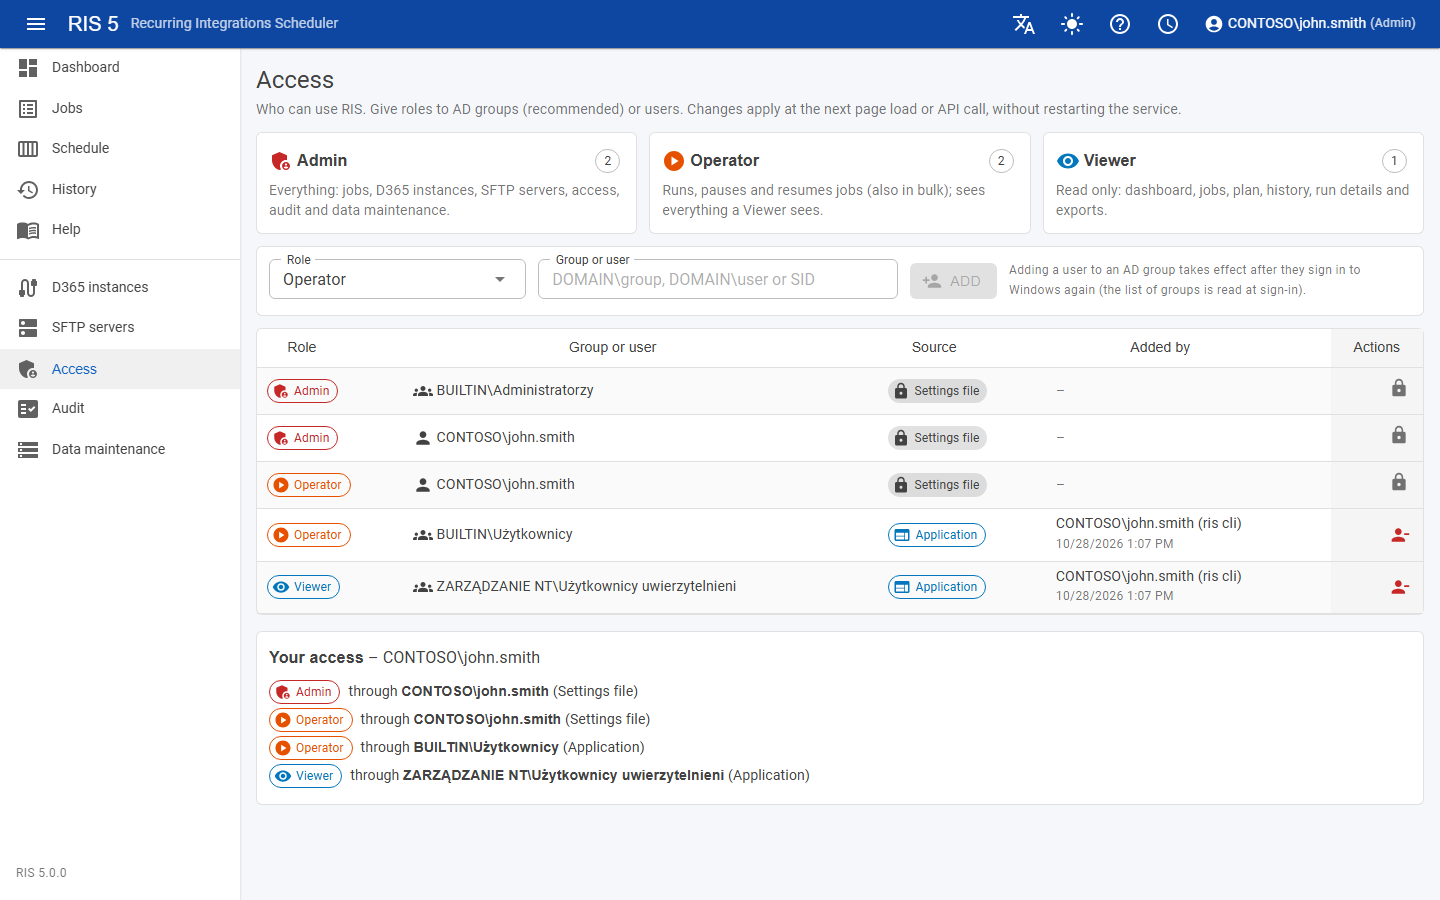
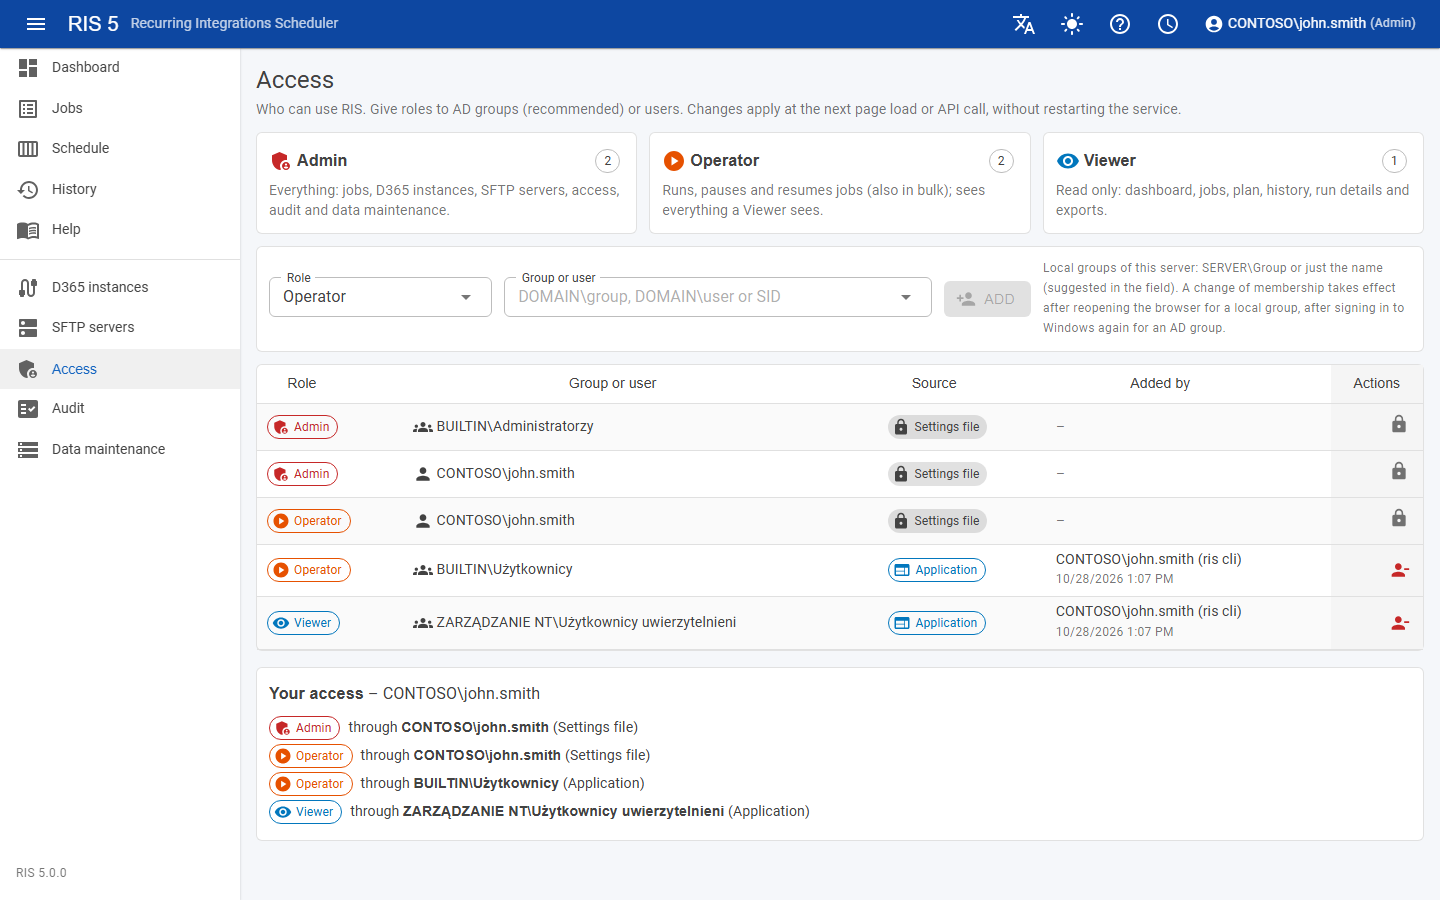
RIS 5 access: local groups of the server - every name form accepted, suggestions on the Access page
Built-in groups resolve as .\Name but not SERVER\Name, other local groups the other way round; the lookup is repeated with the bare name. The member field suggests the local groups (NetLocalGroupEnum) with their descriptions. Manual: creating a local group with New-LocalGroup / Add-LocalGroupMember.

diff --git a/src/RIS.Hosting/WindowsAccounts.cs b/src/RIS.Hosting/WindowsAccounts.cs
@@ -36,8 +36,66 @@ public static class WindowsAccounts
             if (!OperatingSystem.IsWindows()) return new WindowsAccount(sid.Value, sid.Value, true);
             return LookupSid(sid) ?? new WindowsAccount(sid.Value, sid.Value, true);
         }
-        return OperatingSystem.IsWindows() ? LookupName(account) : null;
+        if (!OperatingSystem.IsWindows()) return null;
+        // Local groups of this server: Windows accepts built-in groups as ".\Name" but not "SERVER\Name", and other local
+        // groups the other way round - every form works when the lookup is repeated with the bare name.
+        return LookupName(account) ?? (LocalName(account) is { } name ? LookupName(name) : null);
     }
+
+    /// <summary>The name after ".\" or "&lt;this computer&gt;\", otherwise null.</summary>
+    private static string? LocalName(string account)
+    {
+        var slash = account.IndexOf('\\');
+        if (slash <= 0 || slash == account.Length - 1) return null;
+        var prefix = account[..slash];
+        return prefix == "." || string.Equals(prefix, Environment.MachineName, StringComparison.OrdinalIgnoreCase) ? account[(slash + 1)..] : null;
+    }
+
+    /// <summary>Local groups of this computer (name as Windows writes it, comment), for suggestions on the "Access" page.</summary>
+    public static IReadOnlyList<(string Name, string? Comment)> LocalGroups()
+    {
+        if (!OperatingSystem.IsWindows()) return [];
+        var result = new List<(string Name, string? Comment)>();
+        nint resume = 0;
+        int status;
+        do
+        {
+            status = NetLocalGroupEnum(null, 1, out var buffer, -1, out var read, out _, ref resume);
+            if (status != 0 && status != ErrorMoreData) break;
+            try
+            {
+                var size = Marshal.SizeOf<LocalGroupInfo1>();
+                for (var i = 0; i < read; i++)
+                {
+                    var info = Marshal.PtrToStructure<LocalGroupInfo1>(buffer + i * size);
+                    if (info.Name is null) continue;
+                    // Canonical name from the SID: BUILTIN\Administrators, SERVER\RIS-Operators.
+                    result.Add((LookupName(info.Name)?.Name ?? info.Name, string.IsNullOrWhiteSpace(info.Comment) ? null : info.Comment));
+                }
+            }
+            finally
+            {
+                if (buffer != 0) NetApiBufferFree(buffer);
+            }
+        } while (status == ErrorMoreData);
+        return result.OrderBy(g => g.Name, StringComparer.CurrentCultureIgnoreCase).ToList();
+    }
+
+    private const int ErrorMoreData = 234;
+
+    [StructLayout(LayoutKind.Sequential, CharSet = CharSet.Unicode)]
+    private struct LocalGroupInfo1
+    {
+        public string? Name;
+        public string? Comment;
+    }
+
+    [DllImport("netapi32.dll", CharSet = CharSet.Unicode)]
+    private static extern int NetLocalGroupEnum(string? serverName, int level, out nint buffer, int preferredMaxLength, out int entriesRead,
+        out int totalEntries, ref nint resumeHandle);
+
+    [DllImport("netapi32.dll")]
+    private static extern int NetApiBufferFree(nint buffer);
 
     private static WindowsAccount? LookupName(string account)
     {

diff --git a/test/RIS.Hosting.Tests/WindowsAccountsTests.cs b/test/RIS.Hosting.Tests/WindowsAccountsTests.cs
@@ -1,0 +1,41 @@
+namespace RIS.Hosting.Tests;
+
+/// <summary>Windows account lookup for the "Access" page: every way of writing a local group of the server is accepted.</summary>
+[TestClass]
+public sealed class WindowsAccountsTests
+{
+    private const string Administrators = "S-1-5-32-544";
+
+    [TestMethod]
+    public void LocalGroup_IsFound_ByName_DotPrefix_ComputerPrefix_AndSid()
+    {
+        if (!OperatingSystem.IsWindows()) Assert.Inconclusive("Windows only.");
+
+        // The name depends on the language of Windows (BUILTIN\Administrators, BUILTIN\Administratorzy, ...).
+        var bySid = WindowsAccounts.Resolve(Administrators);
+        Assert.IsNotNull(bySid);
+        Assert.IsTrue(bySid.IsGroup);
+        StringAssert.Contains(bySid.Name, "\\");
+        var name = bySid.Name[(bySid.Name.IndexOf('\\') + 1)..];
+
+        foreach (var form in new[] { name, bySid.Name, @".\" + name, Environment.MachineName + "\\" + name })
+        {
+            var account = WindowsAccounts.Resolve(form);
+            Assert.IsNotNull(account, form);
+            Assert.AreEqual(Administrators, account.Sid, form);
+            Assert.AreEqual(bySid.Name, account.Name, "Canonical name for " + form);
+        }
+
+        Assert.IsNull(WindowsAccounts.Resolve(@".\no-such-group-ris5"));
+        Assert.IsNull(WindowsAccounts.Resolve(@"NO-SUCH-DOMAIN\no-such-group-ris5"));
+    }
+
+    [TestMethod]
+    public void LocalGroups_AreListed_WithCanonicalNames()
+    {
+        if (!OperatingSystem.IsWindows()) Assert.Inconclusive("Windows only.");
+
+        var groups = WindowsAccounts.LocalGroups();
+        CollectionAssert.Contains(groups.Select(g => g.Name).ToList(), WindowsAccounts.Resolve(Administrators)!.Name);
+    }
+}

diff --git a/src/RIS.Server/wwwroot/manual/pl/02-installation.md b/src/RIS.Server/wwwroot/manual/pl/02-installation.md
@@ -76,6 +76,15 @@ Potrzebne, gdy zadania czytają lub zapisują pliki na udziałach sieciowych.
 
 > Dodanie użytkownika do grupy AD zadziała po jego **ponownym zalogowaniu do Windows** – lista grup jest odczytywana przy logowaniu.
 
+**Grupy lokalne serwera** – gdy nie możesz tworzyć grup w AD albo chcesz nadać dostęp tylko na tym serwerze, utwórz grupę lokalną i dodaj do niej konta domenowe (PowerShell jako administrator):
+
+```powershell
+New-LocalGroup -Name RIS-Operatorzy -Description "Operatorzy RIS 5"
+Add-LocalGroupMember -Group RIS-Operatorzy -Member CONTOSO\jan.kowalski, CONTOSO\Księgowość
+```
+
+Na stronie *Dostęp* zacznij pisać w polu *Grupa lub użytkownik* – pole podpowiada grupy lokalne serwera. Można wpisać `SERWER\RIS-Operatorzy`, `.\RIS-Operatorzy` albo samą nazwę. Zmiana członkostwa w grupie lokalnej działa po ponownym otwarciu przeglądarki (bez wylogowania z Windows). Przy wielu serwerach RIS wygodniejsze są grupy AD – jedna grupa dla wszystkich serwerów.
+
 **Plik ustawień.** Role podane w instalatorze (`/ADMINS`, `/OPERATORS`) są w `%ProgramData%\RIS5\appsettings.json` i na stronie *Dostęp* są tylko do odczytu (ikona kłódki) – dzięki temu administratorzy nie mogą przypadkiem odciąć sobie dostępu. Zmiana w pliku wymaga restartu usługi:
 
 ```json

diff --git a/src/RIS.Server/wwwroot/manual/en/02-installation.md b/src/RIS.Server/wwwroot/manual/en/02-installation.md
@@ -76,6 +76,15 @@ Needed when jobs read or write files on network shares.
 
 > Adding a user to an AD group takes effect after they **sign in to Windows again** – the list of groups is read at sign-in.
 
+**Local groups of the server** – when you cannot create AD groups or want to give access on this server only, create a local group and add domain accounts to it (PowerShell as administrator):
+
+```powershell
+New-LocalGroup -Name RIS-Operators -Description "RIS 5 operators"
+Add-LocalGroupMember -Group RIS-Operators -Member CONTOSO\john.smith, CONTOSO\Accounting
+```
+
+On the *Access* page start typing in the *Group or user* field – it suggests the local groups of the server. You can enter `SERVER\RIS-Operators`, `.\RIS-Operators` or just the name. A change of membership in a local group takes effect after reopening the browser (no need to sign out of Windows). With several RIS servers AD groups are more convenient – one group for all servers.
+
 **Settings file.** Roles given in the installer (`/ADMINS`, `/OPERATORS`) are in `%ProgramData%\RIS5\appsettings.json` and are read-only on the *Access* page (lock icon) – so administrators cannot lock themselves out by accident. A change in the file needs a service restart:
 
 ```json
